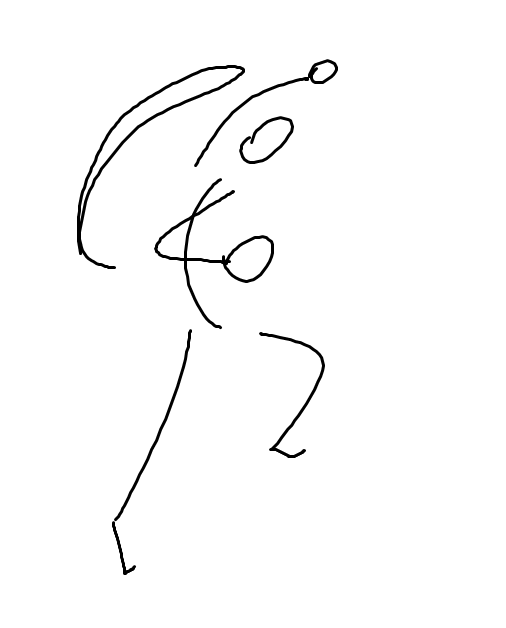
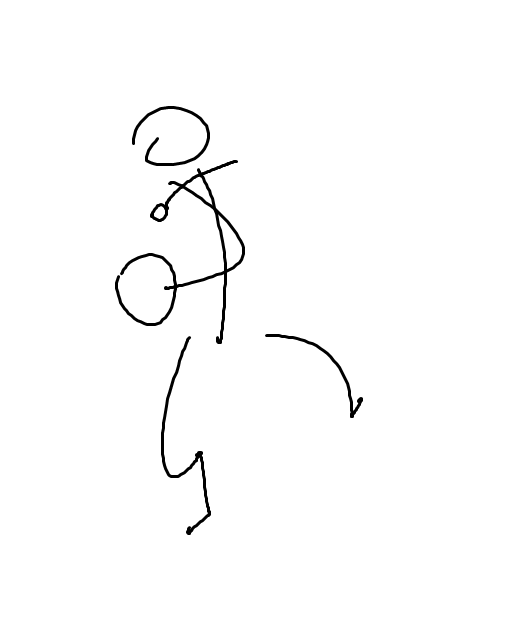
Blocking

diff --git a/Assets/Player/PlayerCombat.cs b/Assets/Player/PlayerCombat.cs
@@ -7,7 +7,8 @@ public class PlayerCombat : MonoBehaviour
     int maxCombo = 2;
 
     bool idle = false;
-    bool attacking;
+    bool blocking = false;
+    bool attacking = false;
     int comboPos = 0;
 
     Animator animator;
@@ -19,22 +20,32 @@ public class PlayerCombat : MonoBehaviour
     }
 
     void Update() {
-        if (Input.GetMouseButtonDown(0)) {
-            if (!attacking) {
-                attacking = true;
+        if (Input.GetMouseButtonDown(1) && !attacking) {
+            Debug.Log("Block");
+            blocking = true;
+            comboPos = 0;
+            UpdateAnimator();
+        } else if (Input.GetMouseButtonDown(0) && !attacking && !blocking) {
+            attacking = true;
 
-                if (comboPos == 0) {
-                    comboPos ++;
-                    Debug.Log("first attack");
-                    idle = comboPos == 0;
-                    UpdateAnimator();
-                }
-
-                idle = comboPos == 0;
+            if (comboPos == 0)
+            {
+                comboPos++;
+                Debug.Log("first attack");
+                UpdateAnimator();
             }
+
+            SetIdle();
         }
 
-        
+        if (Input.GetMouseButtonUp(1) && blocking) {
+            blocking = false;
+            UpdateAnimator();
+        }
+    }
+
+    void SetIdle() {
+        idle = comboPos == 0 && !blocking;
     }
 
     public void AttackTriggered() {
@@ -60,13 +71,18 @@ public class PlayerCombat : MonoBehaviour
             Debug.Log("Attack not queued, idle = " + idle);
         }
 
-        idle = comboPos == 0;
         UpdateAnimator();
     }
 
+    public void HitPlayer() {
+        
+    }
+
     void UpdateAnimator() {
+        SetIdle();
         animator.SetBool("Idling", idle);
         animator.SetBool("Punching", comboPos == 1);
         animator.SetBool("FollowingUp", comboPos == 2);
+        animator.SetBool("Blocking", blocking);
     }
 }
